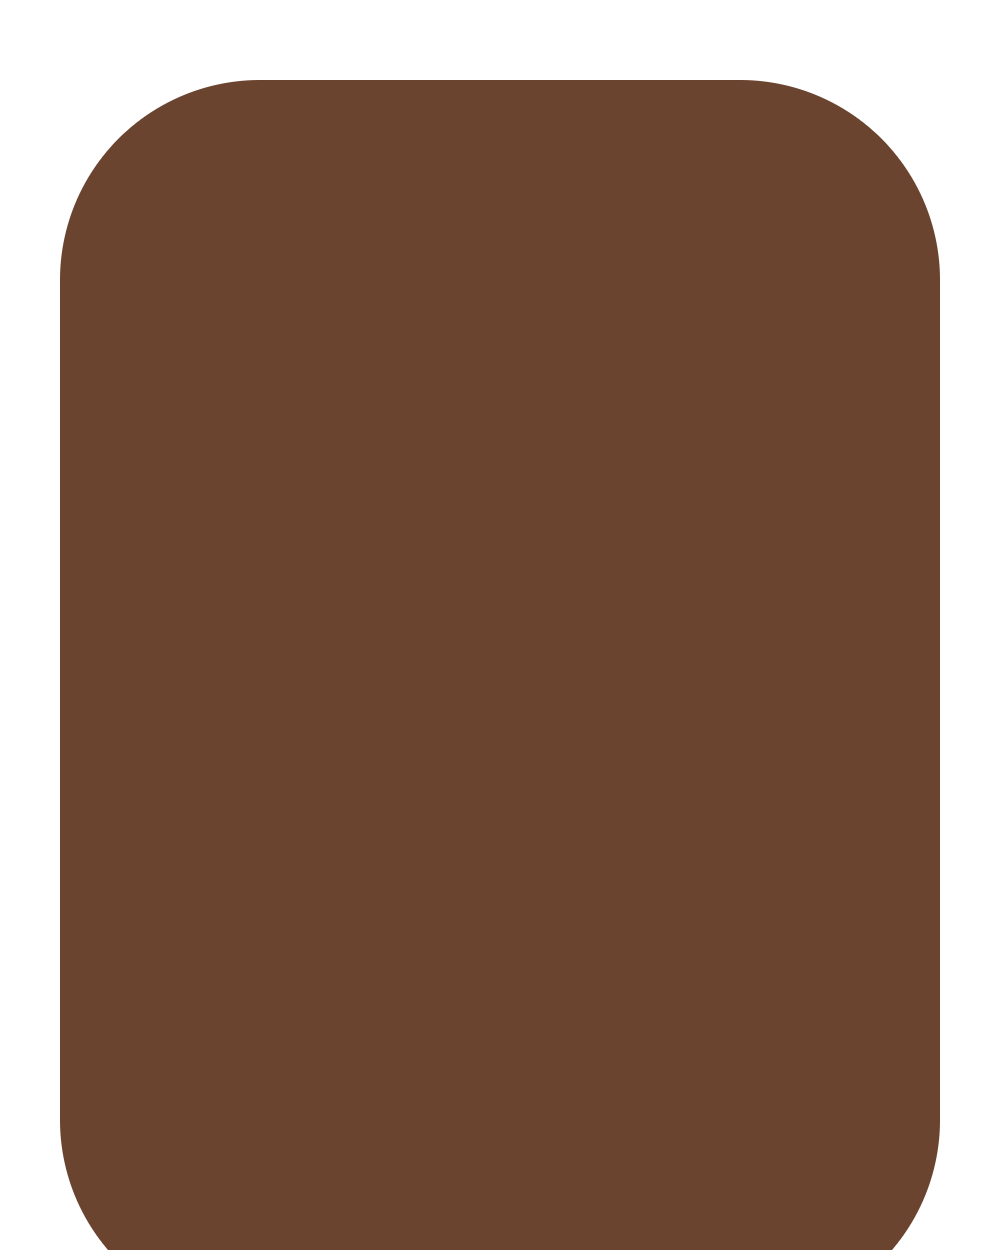
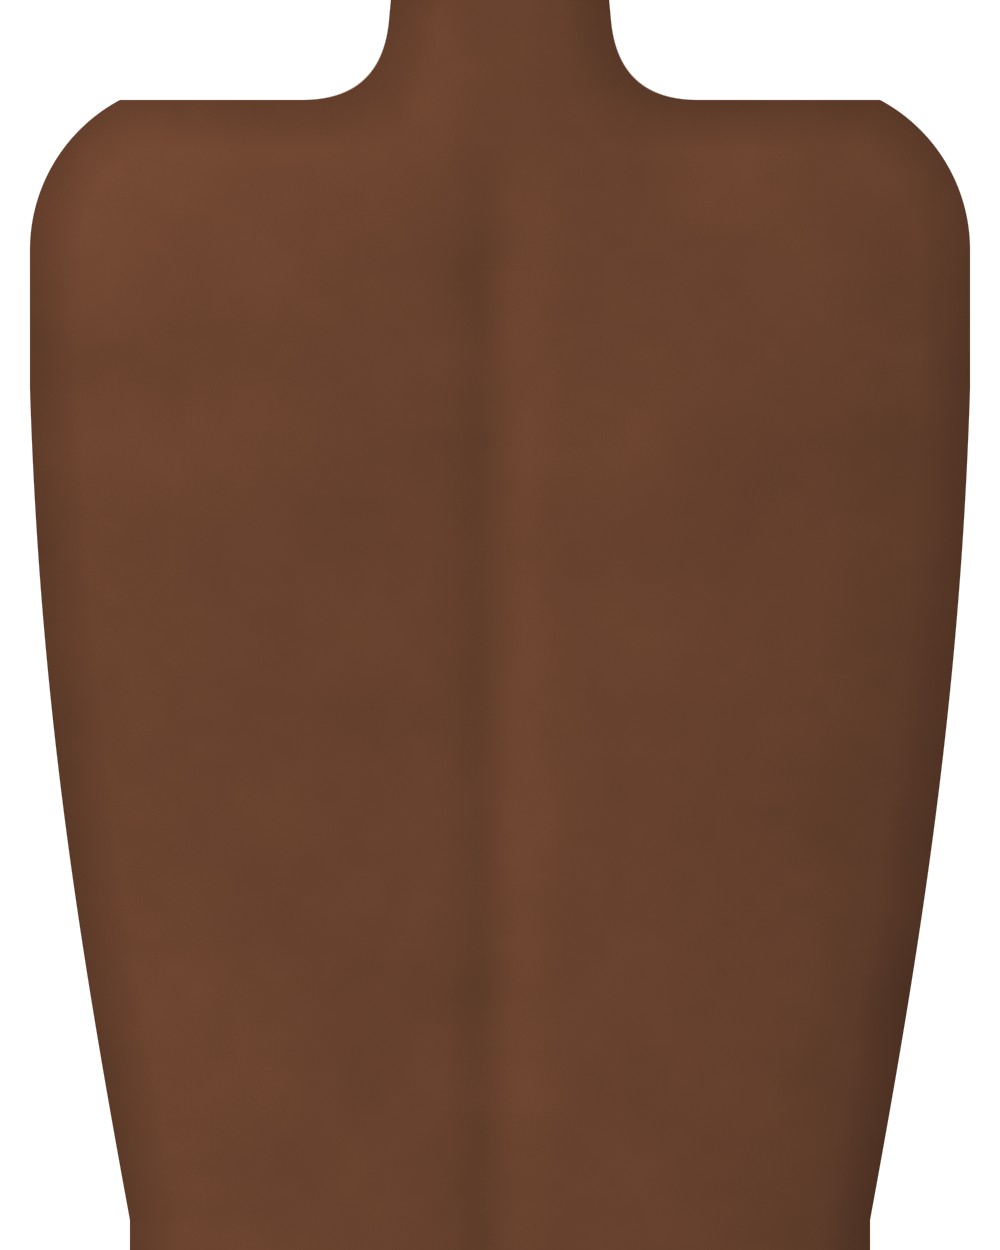
feat: shade and texture the body placeholders

Changed region(s): [[0.372, 0.0, 0.992, 1.0], [0.031, 0.0624, 0.372, 0.5928], [0.062, 0.6552, 0.155, 1.0]]

diff --git a/PRD.md b/PRD.md
@@ -483,7 +483,7 @@ Goal: tino-1 fully playable with placeholders and deterministic scoring only.
 - [x] 4.2 INKING animation + fresh-ink halo + reduced-motion path
 - [x] 4.3 Audio (11.5)
 - [x] 4.4 INKGRAM screen + share card + X intent
-- [ ] 4.5 Real body art dropped in (if available; placeholders are acceptable)
+- [x] 4.5 Real body art dropped in (if available; placeholders are acceptable)
 - [ ] 4.6 Error screens: CDN failure, image load failure
 - [ ] 4.7 Mobile pass at 390px + "best on desktop" banner
 - [ ] 4.8 Title screen and footer disclaimer
@@ -656,6 +656,7 @@ export interface JobResult {
 - 4.1: `9b5a43d` · 4.2 INKING (`src/lib/ink/bounds.ts` pure `alphaBounds` + tests; `composite.ts` shares one `drawInkLayer` between the composite and `freshInk()` (red ink silhouette for the halo + ink bbox); `PreparedJob.halo` / `inkBox`; `InkingScreen.tsx`: rAF clip-path sweep across the ink bbox in 2.5 s over the "before" image (bare skin, or the old CRYSTAL composite for the cover-up), needle dot zigzagging on the edge, 1 s multiply-blended blurred red halo fading out, verdict waits for sweep + halo, judge in parallel (9 s cap unchanged); `prefers-reduced-motion`: no sweep, no needle, no halo, result shown at once, 1.2 s minimum): commit "feat: animate inking with a needle sweep and fresh-ink halo"
 - 4.2: `b1eaa53` · 4.3 audio (`src/lib/audio.ts`: `unlockAudio` creates/resumes the AudioContext only inside a gesture, `startNeedleBuzz` 110 Hz sawtooth -> 900 Hz lowpass, gain 0.04 +/- 0.04 via a 32 Hz LFO (0.08 peak) for the sweep, `playStamp` 0.18 s decaying noise burst on VERDICT, every call best effort in try/catch; `src/lib/game/prefs.ts` guarded `loadSound`/`saveSound` + tests; `SoundToggle.tsx` on TITLE and in the header; store `setSound`; while sound is on, the next pointerdown wakes the context): commit "feat: add synth needle buzz and verdict stamp, off by default"
 - 4.3: `0ce5b9d` · 4.4 INKGRAM (`src/lib/share/social.ts` pure `likeCount` (stars x FNV-seeded 180-420 per job), `formatLikes`, `shareText` (11.4 wording, finale "myself" without stars), `xIntentUrl`, `wrapLines` (2 lines + ellipsis) + tests; `src/lib/share/card.ts` 1080x1350 PNG: night gradients, 1000x1000 center crop of the composite in a neon frame, handle, stars, 2-line caption, footer "INKED IN LEONIDA · #BuiltWithImageEditor", next/font families read from the CSS variables; `downloadBlob` anchor + blob URL; `ShareActions.tsx` Download card / Share on X + "Attach your downloaded card to the post." + diegetic printer-jam retry; `InkgramScreen.tsx` feed post with seeded likes; VERDICT "Post to InkGram" + "Next client"/"Close up shop"; SELF_REVEAL gets download + share; InkGram step in the progress pills): commit "feat: add InkGram post, share card download and X intent"
+- 4.4: `dd8cf7a` · 4.5 body art: no owner art in `public/bodies/` (all 7 files were the Phase 0 flat placeholders), so the placeholders were regenerated at the same paths, zero code changes: silhouette SDFs (parametric forearm taper, shoulder cap + upper arm + neck slope, upper back with neck and shoulders), height field = 3x box-blurred silhouette mask + spine groove / shoulder blade / deltoid bumps, lit from the upper left with ambient + diffuse + faint sheen and edge darkening, low-frequency blotch + fine pore noise, warmer lit tones; 1 px antialiased alpha edge; skin hex per 11.1 as the mid-tone. Generator used Node built-ins only (`zlib`), run from the session scratchpad, not committed. Target-zone corners verified on skin (alpha 255) for forearm (all tones) and shoulder: commit "feat: shade and texture the body placeholders"
 
 ### Current task
 <!-- Agent: one task ID -->
@@ -778,6 +779,7 @@ Full details in `NOTES.md`. Highlights:
 - 2026-09-26 · 4.2 · typecheck pass · lint pass · test 213/213 (+alphaBounds x2) · browser (dev): tino-1 lock-in -> INKING with inkBox {x .384, y .469, w .233, h .162}; at ~1.1 s the heart is half revealed with the needle dot on the edge; VERDICT after sweep + halo; with `matchMedia` reporting reduced motion: no clip, no needle, no halo, "Fresh ink. Let it breathe…" immediately
 - 2026-09-26 · 4.3 · typecheck pass · lint pass · test 216/216 (12 files; +3 sound pref incl. throwing storage) · browser (dev): no AudioContext before the click; real click on "Sound off" -> "Sound on", context `running`, localStorage "on"; tino-1 lock-in -> 2 oscillators per buzz during the sweep, stamp buffer source on VERDICT (dev Strict Mode runs each effect twice)
 - 2026-09-26 · 4.4 · typecheck pass · lint pass · test 223/223 (13 files; +7 social) · browser (dev): VERDICT buttons "Post to InkGram" + "Next client" -> INKGRAM post 558 likes (2 stars) with the reaction as caption -> Download card produced `image/png` 1080x1350 named `inked-in-leonida-tino-1.png` (anchor click intercepted in-page, nothing saved to disk), card inspected visually; X link text "I just inked Tino Batista at a Leonida tattoo shop. 2★ https://inked-in-leonida.vercel.app #BuiltWithImageEditor @unlayer"
+- 2026-09-26 · 4.5 · 7 PNGs 1000x1250 RGBA regenerated (4.9 MB total, ~0.4-1.1 MB each, one to three load per run) · zone-corner alpha check 255 on forearm-light/medium/deep and shoulder-light · browser (dev): heart + CRYSTAL multiplied into the shaded forearm-deep, clipped at the edge
 
 ---
 
